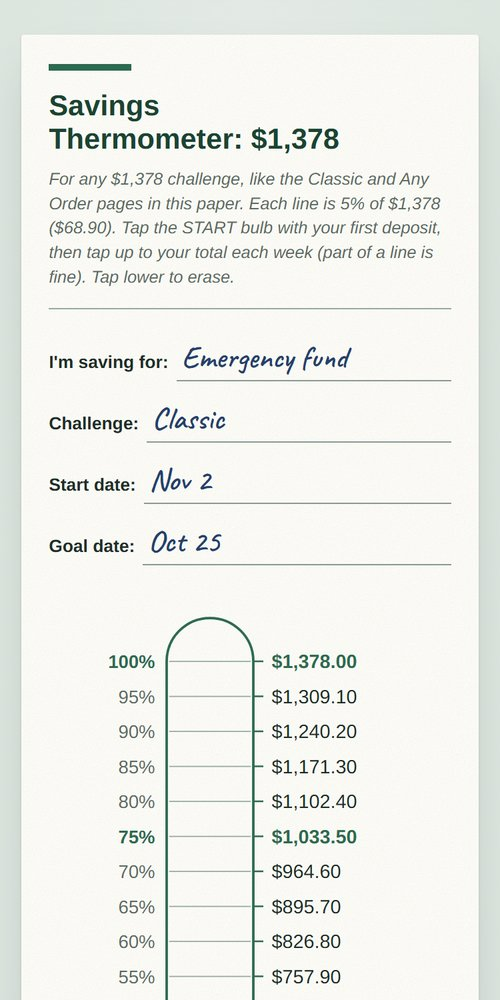
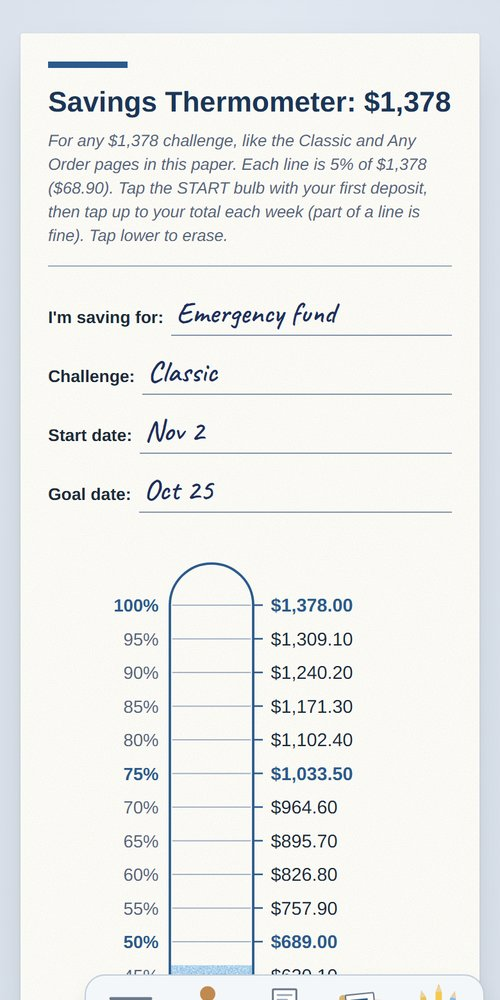
Digital Paper in its own ink-blue look
The digital line gets an ink-blue palette so it never looks like the
green printables; the "coming soon" preview shows the new look.

diff --git a/p/52wk-711f3d/index.html b/p/52wk-711f3d/index.html
@@ -6,7 +6,7 @@
 <meta name="apple-mobile-web-app-capable" content="yes">
 <meta name="mobile-web-app-capable" content="yes">
 <meta name="apple-mobile-web-app-title" content="Savings Paper">
-<meta name="theme-color" content="#E3EAE5">
+<meta name="theme-color" content="#E2E8F0">
 <style>:root{color-scheme:light;padding-top:env(safe-area-inset-top,0px);padding-bottom:env(safe-area-inset-bottom,0px)}
 body{margin:0;font:14px system-ui,-apple-system,"Segoe UI",Roboto,sans-serif}img{max-width:100%}[hidden]{display:none!important}</style>
 <meta name="robots" content="noindex, nofollow">
@@ -22,27 +22,27 @@ body{margin:0;font:14px system-ui,-apple-system,"Segoe UI",Roboto,sans-serif}img
 /* Layout: printed sheets lie in one column on a desk; basket, stamp and pencils sit in a small tray
    at the bottom-right corner. Each sheet is a size container, so its print scales with its width. */
 :root{
-  --desk:#E3EAE5; --desk-2:#D3DDD6; --desk-ink:#4F5F57; --tray:#F4F7F5; --tray-edge:#C3CEC7; --ring:#2D6A4F;
+  --desk:#E2E8F0; --desk-2:#D0D9E5; --desk-ink:#4A5868; --tray:#F4F7FA; --tray-edge:#C2CDDA; --ring:#2B5A8C;
   --paper:#FFFEFA; --paper-shadow:rgba(25,45,35,.34);
-  --deep:#1B4332; --accent:#2D6A4F; --mint:#E3F4E8; --print:#1F2D27; --muted:#5B6B63;
-  --rule:#98AAA0; --faint:#9AA9A1; --line-in:#8A9A92; --label:#3F4F47;
-  --ink:#24406B; --focus:rgba(233,162,27,.16);
-  --stamp:#2D6A4F; --stamp-bad:#A3392A;
+  --deep:#1C3557; --accent:#2B5A8C; --mint:#E6EEF8; --print:#1E2A38; --muted:#56657A;
+  --rule:#9AAAC0; --faint:#A0AEC2; --line-in:#8796AC; --label:#3D4C60;
+  --ink:#1F2F5C; --focus:rgba(233,162,27,.16);
+  --stamp:#2B5A8C; --stamp-bad:#A3392A;
   --note:#FFF0A0; --note-ink:#3B3820;
-  --wood:#C08A51; --wood-dark:#8E5E2E; --metal:#6F7E77; --cup:#3F6656; --cup-hi:#6E9683;
+  --wood:#C08A51; --wood-dark:#8E5E2E; --metal:#6B7889; --cup:#34557A; --cup-hi:#6D8DB0;
   --f-print:"Arimo","Helvetica Neue",Helvetica,Arial,sans-serif;
   --f-hand:"Caveat","Segoe Print","Bradley Hand","Comic Sans MS",cursive;
 }
 @media (prefers-color-scheme: dark){
   :root:not([data-theme="light"]){
-    --desk:#1B231F; --desk-2:#131915; --desk-ink:#B4C2BA; --tray:#26302B; --tray-edge:#3A4741; --ring:#8FD1AC;
-    --paper:#F2F0E8; --paper-shadow:rgba(0,0,0,.65); --metal:#A3B1AA; --cup:#5E8A75; --cup-hi:#8DB5A1;
+    --desk:#18202B; --desk-2:#11171F; --desk-ink:#B3C0D0; --tray:#232D3A; --tray-edge:#36435A; --ring:#8DB6E6;
+    --paper:#F2F0E8; --paper-shadow:rgba(0,0,0,.65); --metal:#A0AEC2; --cup:#557AA3; --cup-hi:#8BABD0;
     color-scheme:dark;
   }
 }
 :root[data-theme="dark"]{
-  --desk:#1B231F; --desk-2:#131915; --desk-ink:#B4C2BA; --tray:#26302B; --tray-edge:#3A4741; --ring:#8FD1AC;
-  --paper:#F2F0E8; --paper-shadow:rgba(0,0,0,.65); --metal:#A3B1AA; --cup:#5E8A75; --cup-hi:#8DB5A1;
+  --desk:#18202B; --desk-2:#11171F; --desk-ink:#B3C0D0; --tray:#232D3A; --tray-edge:#36435A; --ring:#8DB6E6;
+  --paper:#F2F0E8; --paper-shadow:rgba(0,0,0,.65); --metal:#A0AEC2; --cup:#557AA3; --cup-hi:#8BABD0;
   color-scheme:dark;
 }
 [hidden]{display:none!important}
@@ -264,8 +264,8 @@ textarea.ink{display:block;height:calc(var(--rows) * 36px);line-height:36px;padd
     </filter>
     <clipPath id="coinClip" clipPathUnits="userSpaceOnUse"><circle cx="50" cy="50" r="41.2"/></clipPath>
     <radialGradient id="crShade" cx="50%" cy="50%" r="70%">
-      <stop offset="0" stop-color="#14231B" stop-opacity=".04"/>
-      <stop offset="1" stop-color="#14231B" stop-opacity=".3"/>
+      <stop offset="0" stop-color="#142033" stop-opacity=".04"/>
+      <stop offset="1" stop-color="#142033" stop-opacity=".3"/>
     </radialGradient>
   </defs>
 </svg>
@@ -360,7 +360,7 @@ const NS = 'http://www.w3.org/2000/svg';
 // ---------------- state and storage ----------------
 // S = {v, f: field values by "sheet.field" key, pencil, note (first-visit note put away), trash (last tossed page)}
 let raw0 = null, dirty = false, frozen = false, saveT;
-function blankState(){ return {v:1, f:{}, pencil:'mint', note:false, trash:null}; }
+function blankState(){ return {v:1, f:{}, pencil:'sky', note:false, trash:null}; }
 function migrate(o){
   // first prototype stored the thermometer as 21 cells (bulb + 20 lines of 5%)
   const f = o.f;
@@ -1076,7 +1076,7 @@ function ballSVG(tint){
     const a = I[(r() * 6) | 0], b = P[(r() * n) | 0];
     out += `<line x1="${a[0].toFixed(1)}" y1="${a[1].toFixed(1)}" x2="${b[0].toFixed(1)}" y2="${b[1].toFixed(1)}" stroke="#463F2E" stroke-opacity=".24" stroke-width=".8"/>`;
   }
-  const inks = ['#2D6A4F', '#98AAA0'].concat(tint || []);
+  const inks = ['#2B5A8C', '#9AAAC0'].concat(tint || []);
   for (let k = 0; k < 6; k++){
     const a = I[(r() * 6) | 0], ang = r() * Math.PI, len = 6 + r() * 10, c = inks[k % inks.length];
     out += `<line x1="${a[0].toFixed(1)}" y1="${a[1].toFixed(1)}" x2="${(a[0] + Math.cos(ang) * len).toFixed(1)}" y2="${(a[1] + Math.sin(ang) * len).toFixed(1)}" ` +
@@ -1091,12 +1091,12 @@ function creases(w, hh){
   for (let k = 0; k < 16; k++){
     const x = r() * w, y = r() * hh, a = r() * Math.PI * 2, l = (.25 + r() * .4) * Math.max(w, hh);
     const x2 = x + Math.cos(a) * l, y2 = y + Math.sin(a) * l, x3 = x + Math.cos(a + 1.1) * l * .7, y3 = y + Math.sin(a + 1.1) * l * .7;
-    out += `<polygon points="${x},${y} ${x2},${y2} ${x3},${y3}" fill="${k % 2 ? '#ffffff' : '#14231B'}" opacity="${k % 2 ? .42 : .1}"/>`;
+    out += `<polygon points="${x},${y} ${x2},${y2} ${x3},${y3}" fill="${k % 2 ? '#ffffff' : '#142033'}" opacity="${k % 2 ? .42 : .1}"/>`;
   }
   for (let k = 0; k < 22; k++){
     const x = r() * w, y = r() * hh, a = r() * Math.PI, l = (.3 + r() * .7) * Math.max(w, hh);
     const x2 = x + Math.cos(a) * l, y2 = y + Math.sin(a) * l;
-    out += `<line x1="${x}" y1="${y}" x2="${x2}" y2="${y2}" stroke="#14231B" stroke-opacity=".24" stroke-width="1.3"/>` +
+    out += `<line x1="${x}" y1="${y}" x2="${x2}" y2="${y2}" stroke="#142033" stroke-opacity=".24" stroke-width="1.3"/>` +
       `<line x1="${x + 1.3}" y1="${y + 1.3}" x2="${x2 + 1.3}" y2="${y2 + 1.3}" stroke="#ffffff" stroke-opacity=".6" stroke-width="1.1"/>`;
   }
   return out + `<rect width="100%" height="100%" fill="url(#crShade)"/></svg>`;
